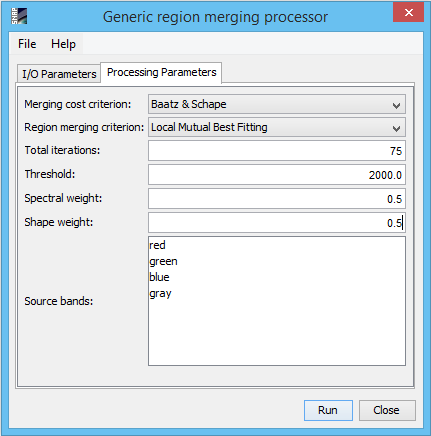
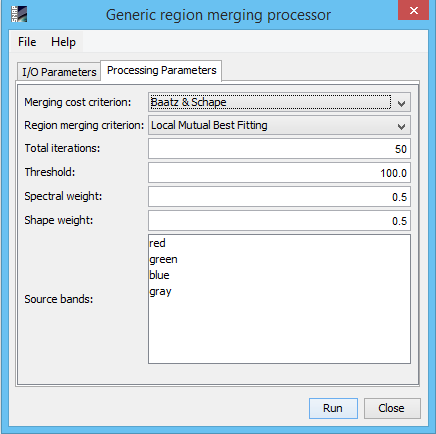
Updated grm help images and forest cover change and grm help file

diff --git a/s2tbx-forest-cover-change-ui/src/main/resources/org/esa/s2tbx/fcc/docs/ForestCoverChangeProcessor.html b/s2tbx-forest-cover-change-ui/src/main/resources/org/esa/s2tbx/fcc/docs/ForestCoverChangeProcessor.html
@@ -63,19 +63,19 @@
 </p>
 <p>
     &nbsp;&nbsp;&nbsp;&nbsp;&nbsp;&nbsp;&nbsp;
-    RED: 0.63 um - 0.69 um
+    RED: 0.63 &#xb5m - 0.69 &#xb5m
 </p>
 <p>
     &nbsp;&nbsp;&nbsp;&nbsp;&nbsp;&nbsp;&nbsp;
-    NIR: 0.76 um - 0.9 um
+    NIR: 0.76 &#xb5m - 0.9 &#xb5m
 </p>
 <p>
     &nbsp;&nbsp;&nbsp;&nbsp;&nbsp;&nbsp;&nbsp;
-    SWIR: 1.55 um - 1.75 um
+    SWIR: 1.55 &#xb5m - 1.75 &#xb5m
 </p>
 <p>
     &nbsp;&nbsp;&nbsp;&nbsp;&nbsp;&nbsp;&nbsp;
-    SWIR: 2.08 um - 2.35 um
+    SWIR: 2.08 &#xb5m - 2.35 &#xb5m
 </p>
 <p>
     Forest masks are produced in two major steps:
@@ -110,14 +110,17 @@
 
             <p class="i1">
                 <b>Current Source Product</b>
-                Specify the current source product which will be used to compute the forest cover change.
+                Specify the current source product which will be used to compute the forest cover change. The current source product represents the
+                most current product by date.
             </p>
             <p class="i1">
                 <b>Previous Source Product</b>
-                Specify the previous source product which will be used to compute the forest cover change.
+                Specify the previous source product which will be used to compute the forest cover change. The previous source product represents a product that is
+                older than the current source product.
             </p>
             <p>
-                <b>NOTE:</b> The two input products must have the same geo-spatial latitude and longitude and the same raster sizes.
+                <b>NOTE:</b> The two input products must have the same geo-spatial latitude and longitude and the same raster sizes. The two source products must be from
+                the same period of the year for a more precise result.
             </p>
 
             <h5>Target Product</h5>
@@ -150,7 +153,8 @@
         <td style="border-width:0;" valign="top">
             <p class="i1">
                 <b>Forest cover percentage:</b>
-                Specify the  forest cover percentage for each segmentation object.
+                Specify the  forest cover percentage for each segmentation object. It represents the percent of pixels from a segmentation
+                object that are marked as forest in the CCI Land Cover map.
             </p>
             <p class="i1">
                 <b>Merging cost criterion:</b>
@@ -165,12 +169,15 @@
 
             <p class="i1">
                 <b>Total iterations:</b>
-                Specify the total number of iterations.
+                Specify the total number of iterations. The higher the number of iterations, the lower the number of segmentation objects is. On a segmentation
+                step the number of segmentation objects may be reduced by merging the adjacent segments based on the merging cost criterion and
+                region merging criterion.
             </p>
 
             <p class="i1">
                 <b>Threshold:</b>
-                Specify the threshold which is compared with the merging cost. This thereshold avoids undersegmentation.
+                Specify the threshold which is compared with the merging cost. This thereshold avoids undersegmentation. The higher the value of the threshold the least chances
+                of undersegmentation.
             </p>
 
             <p class="i1">

diff --git a/s2tbx-grm-ui/src/main/resources/org/esa/s2tbx/grm/docs/GenericRegionMergingProcessor.html b/s2tbx-grm-ui/src/main/resources/org/esa/s2tbx/grm/docs/GenericRegionMergingProcessor.html
@@ -97,7 +97,15 @@
 
             <p class="i1">
                 <b>Total iterations:</b>
-                Specify the total number of iterations.
+                Specify the total number of iterations. The higher the number of iterations, the lower the number of segmentation objects is. On a segmentation
+                step the number of segmentation objects may be reduced by merging the adjacent segments based on the merging cost criterion and
+                region merging criterion.
+            </p>
+
+            <p class="i1">
+                <b>Threshold:</b>
+                Specify the threshold which is compared with the merging cost. This thereshold avoids undersegmentation. The higher the value of the threshold the least chances
+                of undersegmentation.
             </p>
 
             <p class="i1">
@@ -106,18 +114,12 @@
             </p>
 
             <p class="i1">
-                <b>Threshold:</b>
-                Specify the threshold which is compared with the merging cost. This thereshold avoids undersegmentation.
-            </p>
-
-            <p class="i1">
                 <b>Shape weight:</b>
                 Specify the shape weight.
             </p>
-            <p class="i1">
-                <b>Source bands:</b>
-                Specify the bands of the source product used to compute the segmentation.
-                The selected source bands to extract the segments must have the same resolution.
+            <p>
+                <b>NOTE:</b> The threshold, spectral weight, shape weight may vary according to the pixel values of the raster. The standard values for spectral weight, shape weight is 0.5
+                and for threshold is 100. Sometimes to detect more precisely the segmentation objects the processor needs to execute several times with different parameter values.
             </p>
         </td>
         <td style="border-width:0;" valign="top">
